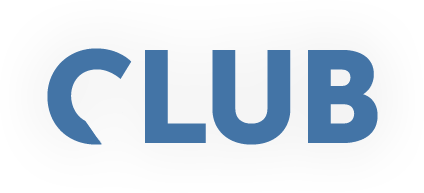
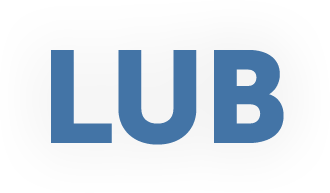
PC 메인 수정중

Changed region(s): [[0.0909, 0.2487, 0.9091, 0.7772]]

diff --git a/css/style.css b/css/style.css
@@ -121,6 +121,7 @@ input[type="checkbox"]:focus {
 	font-size: 15px;
 	font-weight: 700;
 	color: #4374a6;
+	transition: all 0.6s ease;
 }
 #header .menu li:hover,
 #header .menu li.is-active {
@@ -232,12 +233,51 @@ input[type="checkbox"]:focus {
 	top: 0;
 	left: 0;
 }
+.content.main #title-c-head {
+	width: 86px;
+	top: 328px;
+	left: 418px;
+	z-index: 3;
+}
+.content.main #title-c-head .title-c {
+	stroke-dasharray: 300;
+	stroke-dashoffset: 300;
+	transition: all 1.33s linear 0.1s;
+}
+.content.main #title-c-tail {
+	width: 82px;
+	top: 389px;
+	left: 423px;
+	z-index: 1;
+}
+.content.main #title-c-tail .title-c {
+	stroke-dasharray: 100;
+	stroke-dashoffset: 100;
+	transition: all 0.5s linear 1.1s;
+}
+
+.all-load .title-c {
+	stroke-dashoffset: 0 !important;
+}
 .content.main .visual-wrap .title,
 .content.main .visual-wrap .people {
 	position: absolute;
+/*
 	will-change: transform;
 	-webkit-transition-timing-function: ease-out;
 	transition-timing-function: ease-out;
+*/
+}
+.content.main .visual-wrap .title,
+.content.main .visual-wrap .text-group {
+	opacity: 0;
+	transform: translateY(30px);
+	transition: all 1.15s ease;
+}
+.all-load .content.main .visual-wrap .title,
+.all-load .content.main .visual-wrap .text-group{
+	opacity: 1;
+	transform: translateY(0);
 }
 .content.main .visual-wrap .left {
 	top: 140px;
@@ -254,7 +294,7 @@ input[type="checkbox"]:focus {
 .content.main .visual-wrap .right {
 	top: 280px;
 	left: 50%;
-	margin-left: -30px;
+	margin-left: 63px;
 	z-index: 3;
 }
 /*
@@ -294,6 +334,14 @@ input[type="checkbox"]:focus {
 	left: 50%;
 	margin-left: 210px;
 	z-index: 4;
+	opacity: 0;
+	transform: translateX(10px);
+	transition: all 1.34s ease 1.2s;
+}
+.all-load .content.main .visual-wrap .btn-group {
+	opacity: 1;
+	transform: translateX(0);
+	
 }
 .content.main .visual-wrap .btn-group button {
 	display: block;

diff --git a/index.php b/index.php
@@ -61,7 +61,7 @@
 										 c23,0,32.5-13.5,37.7-27.1H139.5z"/>
 				</svg>
 -->
-				<div class="balls"></div>
+				<div class="balls wave"></div>
 				<div class="visual-wrap">
 					<svg 
 						 xmlns="http://www.w3.org/2000/svg"
@@ -77,16 +77,18 @@
 						<path id="svg-path2" fill-rule="evenodd"  stroke="rgb(255, 255, 255)" stroke-width="1px" stroke-linecap="butt" stroke-linejoin="miter" fill="none"
 							  d="M306.399,10.323 C306.399,10.323 354.098,-4.481 406.666,2.263 C459.233,9.007 495.074,22.195 534.685,30.919 C574.296,39.643 623.842,69.430 653.753,98.082 C683.663,126.735 699.193,122.107 723.581,171.514 C747.970,220.921 762.454,282.309 774.610,320.168 C786.766,358.028 793.001,454.512 776.401,510.911 C759.800,567.311 748.769,594.315 707.467,638.073 C665.479,682.560 656.519,717.693 615.257,743.743 C573.996,769.794 488.790,797.531 417.409,792.996 C336.480,787.855 278.045,776.296 229.408,765.236 C180.771,754.175 144.993,713.680 121.979,690.013 C113.967,681.773 73.346,648.692 51.255,602.253 C32.447,562.715 6.818,523.669 2.017,485.837 C-2.784,448.005 5.675,380.590 2.017,358.675 C-1.641,336.760 4.287,260.365 56.627,200.170 C108.967,139.975 130.732,109.364 160.475,87.336 C190.217,65.309 271.939,13.576 306.399,10.323 Z"/>
 					</svg>
-					<div class="people wave" data-wave="0.5">
+					<div class="people">
 						<img src="./images/main_visual_pp.png" alt="">
 					</div>
-					<div class="title left wave" data-wave="0.8">
+					<div class="title left">
 						<img src="./images/main_title_left.png" alt="">
 					</div>
-					<div class="title right wave" data-wave="0.8">
+					<div class="title right">
 						<img src="./images/main_title_right.png" alt="">
 					</div>
-					<div class="text-group wave" data-wave="0.2">
+					<svg id="title-c-head" xmlns="http://www.w3.org/2000/svg" viewBox="0 0 175.88 146.8"><defs><style>.title-c.head{fill:none;stroke:#4075a9;stroke-miterlimit:10;stroke-width:43px;}</style></defs><path class="title-c head" d="M258.43,104.6s-36.58-36.82-83-24.5c-56.49,15-66.5,74.82-47,113" transform="translate(-97.81 -56.08)"/></svg>
+					<svg id="title-c-tail" xmlns="http://www.w3.org/2000/svg" viewBox="0 0 168.42 71.73"><defs><style>.title-c.tail{fill:none;stroke:#4075a9;stroke-miterlimit:10;stroke-width:43px;}</style></defs><path class="title-c tail" d="M121.56,138.78c17.19,37.19,75.13,64.66,134.63,11.86" transform="translate(-102.04 -129.76)"/></svg>
+					<div class="text-group">
 						<div class="desc">
 							<p>당신의 스킨도 이제는 체력 관리가 필요합니다</p>
 							<p>바이오더마 PT클럽에서는</p>
@@ -113,6 +115,11 @@
 		</div>
 	</div>
 	<script type="text/javascript">
+		$(window).on('load', function() {
+			setTimeout(function() {
+				$('html').addClass('all-load');
+			}, 1000);
+		});
 		var svg1 = document.getElementById("svg-shape1");
 		var svg2 = document.getElementById("svg-shape2");
 		var s1 = Snap(svg1);
@@ -157,17 +164,17 @@
 				this.np = this.np + (this.ep - this.np)*0.1;
 				this.yp = this.yp + (this.yp - this.yp)*0.1;
 				this.style.transform = "translate("+this.np+'px'+", "+this.yp+'px'+")";
-				//			this.style.transform = "translate("+this.np+'px'+")";
+//				this.style.transform = "translate("+this.np+'px'+")";
 			}
-			$(window).on('mousemove', function(e){
-				x = (e.clientX - $(window).width()/2) / 50;
-				y = (e.clientY - $(window).height()/2) / 50;
+//			$(window).on('mousemove', function(e){
+//				x = (e.clientX - $(window).width()/2) / 50;
+//				y = (e.clientY - $(window).height()/2) / 50;
 //				waves.each(move);
-			});
-
-			setInterval(function(){
+//			});
+//
+//			setInterval(function(){
 //				waves.each(loop);
-			},33);
+//			},33);
 		})(jQuery);
 
 	</script>
